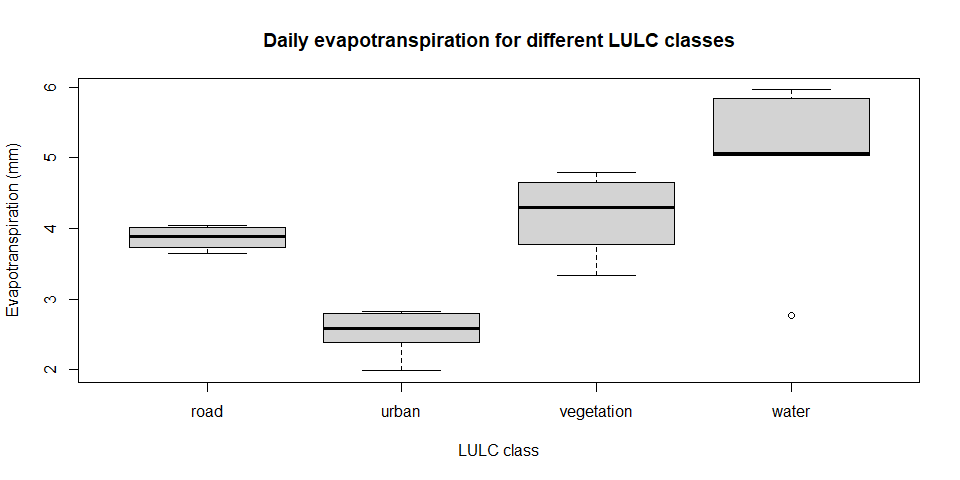
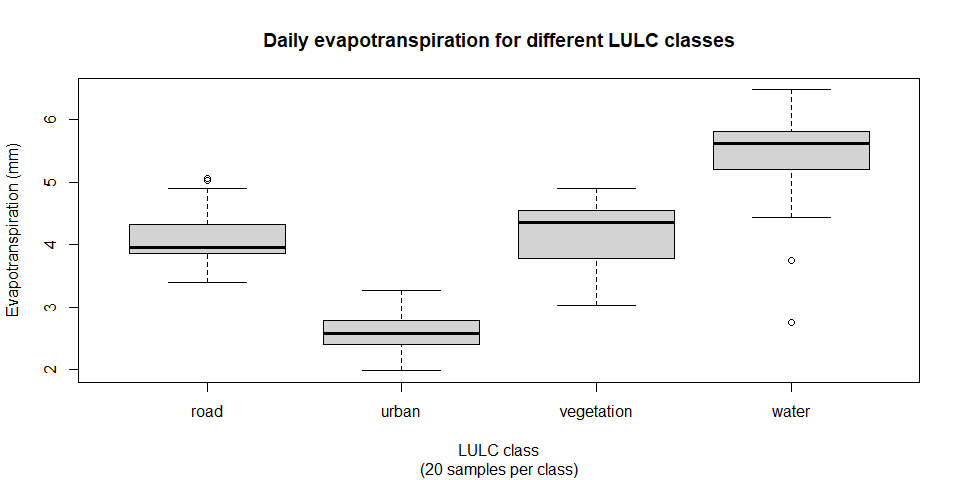
New samples for LULC classes

diff --git a/README.md b/README.md
@@ -478,7 +478,12 @@ source("validation.R")
 ``` r
 leo_coords = c(403873.8,    5759162)
 leo_val = val_at_coords(image = ET.24, coord_pair = leo_coords)
+print(paste("24 hours ET value calculated at LEO Campus = ", leo_val, "mm", sep = ""))
+```
 
+    ## [1] "24 hours ET value calculated at LEO Campus = 2.24090746282385mm"
+
+``` r
 vpts = read_sf("results/pts.gpkg")
 pts_geom = st_geometry(vpts)
 ET_pts = lapply(X = pts_geom, FUN = function(x, img) val_at_coords(as.numeric(x), img), ET.24)
@@ -486,7 +491,7 @@ val_results = as.data.frame(cbind(vpts$LULC, as.numeric(unlist(ET_pts))))
 val_results$V2 = as.numeric(val_results$V2)
 colnames(val_results) = c("LULC", "ET")
 
-boxplot(val_results$ET ~ val_results$LULC, main = "Daily evapotranspiration for different LULC classes", xlab = "LULC class", ylab = "Evapotranspiration (mm)")
+boxplot(val_results$ET ~ val_results$LULC, main = "Daily evapotranspiration for different LULC classes", sub = "(20 samples per class)", xlab = "LULC class", ylab = "Evapotranspiration (mm)")
 ```
 
 ![](README_files/figure-gfm/unnamed-chunk-20-1.png)<!-- -->
